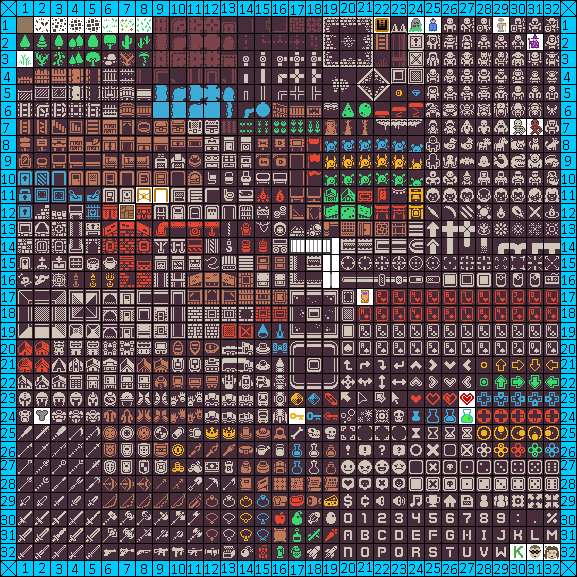
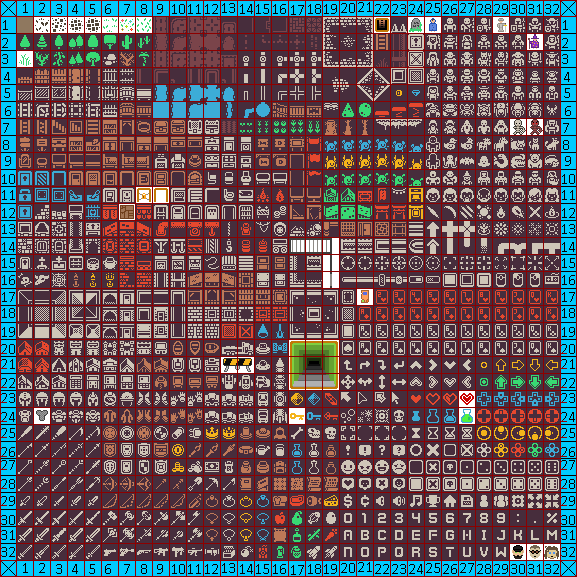
finishing up final room

Changed region(s): [[0.0, 0.0, 1.0, 1.0]]

diff --git a/src/main/java/com/example/dungeaoncrawler/HelloController.java b/src/main/java/com/example/dungeaoncrawler/HelloController.java
@@ -275,10 +275,16 @@ public class HelloController {
                     moveToEnd();
 
                 } else if (Objects.equals(cell.getTileName(), "dev")) {
+
                     if (cell.getType() == CellType.KUBA) {
                         kubaMessage();
                     }
-
+                    if (cell.getType() == CellType.BARTEK) {
+                        bartekMessage();
+                    }
+                    if (cell.getType() == CellType.KRZYSIEK) {
+                        krzysiekMessage();
+                    }
 
                 } else {
                     getItem(cell);
@@ -290,15 +296,25 @@ public class HelloController {
     }
 
     private void kubaMessage () {
-        AlertBox.displayAlertBox("title", "message", "kuba.png");
+        AlertBox.displayAlertBox("Kuba", "message", "kuba.png", 300);
     }
 
     private void bartekMessage () {
-        AlertBox.displayAlertBox("title", "message", "bartek.png");
+        AlertBox.displayAlertBox("Bartek",
+                "WOW dotarłeś!!! Uczeni wyliczyli, że jest tylko jedna szansa na milion,\n" +
+                        "by zaistniało coś tak całkowicie absurdalnego. Jednak magowie obliczyli,\n" +
+                        "że szanse jedna na milion sprawdzają się w dziewięciu przypadkach na dziesięć.\n" +
+                        "\n" +
+                        "Gratulacje!\n" +
+                        "\n" +
+                        "Co? Schody za mną?!\n" +
+                        "Biorę je skubane na siebie!\n" +
+                        "Skopię im poręcz tak bardzo, że nie będą wiedziały którędy na górę!",
+                "bartek.png", 300);
     }
 
     private void krzysiekMessage () {
-        AlertBox.displayAlertBox("title", "message", "krzysiek.png");
+        AlertBox.displayAlertBox("Krzysiek", "message", "krzysiek.png", 300);
     }
 
     private void getCard (Cards newCard, Cell cell) {
@@ -307,11 +323,11 @@ public class HelloController {
             "Card cost : " + newCard.getCardCost() + "\n" +
             "Card rarity : " + newCard.getRarity() + "\n" +
             "Description : " + newCard.getDescription() + "\n" +
-            "Value : " + newCard.getValue() + "\n", newCard.getImg());
+            "Value : " + newCard.getValue() + "\n", newCard.getImg(), 80);
     }
 
     private void getKey (Cell cell) {
-        AlertBox.displayAlertBox("Key found!", "Hey, you've found a key! Now you can go to the final boss!", "keyBig.png");
+        AlertBox.displayAlertBox("Key found!", "Hey, you've found a key! Now you can go to the final boss!", "keyBig.png", 80);
         cell.setType(CellType.EMPTY);
     }
 
@@ -325,7 +341,7 @@ public class HelloController {
 
     private void getItem (Cell cell) {
         AlertBox.displayAlertBox("Collect Item", "Great, you already collect extra + 2 to " +
-                cell.getTileName() + "!", cell.getTileName() + ".png");
+                cell.getTileName() + "!", cell.getTileName() + ".png", 80);
         cell.setType(CellType.EMPTY);
     }
 

diff --git a/src/main/java/com/example/dungeaoncrawler/logic/WorldMap.java b/src/main/java/com/example/dungeaoncrawler/logic/WorldMap.java
@@ -214,7 +214,30 @@ public class WorldMap implements Serializable {
 
         placeSquare(endMap, 1, 9, 1, 7);
         placeSquare(endMap, 15, 23, 1, 8);
-        placeSquare(endMap, 15, 23, 12, 18);
+        placeSquare(endMap, 15, 23, 11, 18);
+
+        endMap.getCell(12, 5).setType(CellType.BARTEK);
+        placeSquare(endMap, 10, 10, 1, 3);
+        placeSquare(endMap, 14, 14, 1, 3);
+
+        endMap.getCell(11, 1).setType(CellType.STAIRS1);
+        endMap.getCell(12, 1).setType(CellType.STAIRS2);
+        endMap.getCell(13, 1).setType(CellType.STAIRS3);
+        endMap.getCell(11, 2).setType(CellType.STAIRS4);
+        endMap.getCell(12, 2).setType(CellType.STAIRS5);
+        endMap.getCell(13, 2).setType(CellType.STAIRS6);
+        endMap.getCell(11, 3).setType(CellType.STAIRS7);
+        endMap.getCell(12, 3).setType(CellType.STAIRS8);
+        endMap.getCell(13, 3).setType(CellType.STAIRS9);
+
+        placeBlockade(endMap, 10, 4);
+        placeBlockade(endMap, 13, 4);
+
+        endMap.getCell(20, 9).setType(CellType.KUBA);
+
+
+
+        endMap.getCell(5, 12).setType(CellType.KRZYSIEK);
 
         gameMaps[0][0] = endMap;
         gameMapStorage.add(endMap);
@@ -226,6 +249,11 @@ public class WorldMap implements Serializable {
                 map.getCell(x, y).setType(CellType.WALL);
             }
         }
+    }
+
+    private void placeBlockade (GameMap map, int xS, int yS) {
+        map.getCell(xS, yS).setType(CellType.BLOCKADE1);
+        map.getCell(xS+1, yS).setType(CellType.BLOCKADE2);
     }
 
     /** neat little toString() override :)*/

diff --git a/src/main/java/com/example/dungeaoncrawler/logic/CellType.java b/src/main/java/com/example/dungeaoncrawler/logic/CellType.java
@@ -19,7 +19,19 @@ public enum CellType {
     P5(19, 16, "p5", false),
     KRZYSIEK(32, 32, "dev", true),
     BARTEK(31, 32, "dev", true),
-    KUBA(30, 32, "dev", true);
+    KUBA(30, 32, "dev", true),
+    BLOCKADE1(13, 21, "blockade1", false),
+    BLOCKADE2(14, 21, "blockade2", false),
+    STAIRS1(17, 20, "stairs1", false),
+    STAIRS2(18, 20, "stairs2", false),
+    STAIRS3(19, 20, "stairs3", false),
+    STAIRS4(17, 21, "stairs4", false),
+    STAIRS5(18, 21, "stairs5", false),
+    STAIRS6(19, 21, "stairs6", false),
+    STAIRS7(17, 22, "stairs7", false),
+    STAIRS8(18, 22, "stairs8", false),
+    STAIRS9(19, 22, "stairs9", false),
+    ;
 
     private final int x;
     private final int y;

diff --git a/src/main/java/com/example/dungeaoncrawler/AlertBox.java b/src/main/java/com/example/dungeaoncrawler/AlertBox.java
@@ -13,7 +13,7 @@ import java.net.URL;
 
 public class AlertBox {
 
-    public static void displayAlertBox(String title, String message, String imageName) {
+    public static void displayAlertBox(String title, String message, String imageName, int height) {
         Stage window = new Stage();
 
         window.initModality(Modality.APPLICATION_MODAL);
@@ -25,7 +25,7 @@ public class AlertBox {
 
         Image img = new Image(imageName);
         ImageView view = new ImageView(img);
-        view.setFitHeight(80);
+        view.setFitHeight(height);
         view.setPreserveRatio(true);
         label.setGraphic(view);
         label.setText(message);
